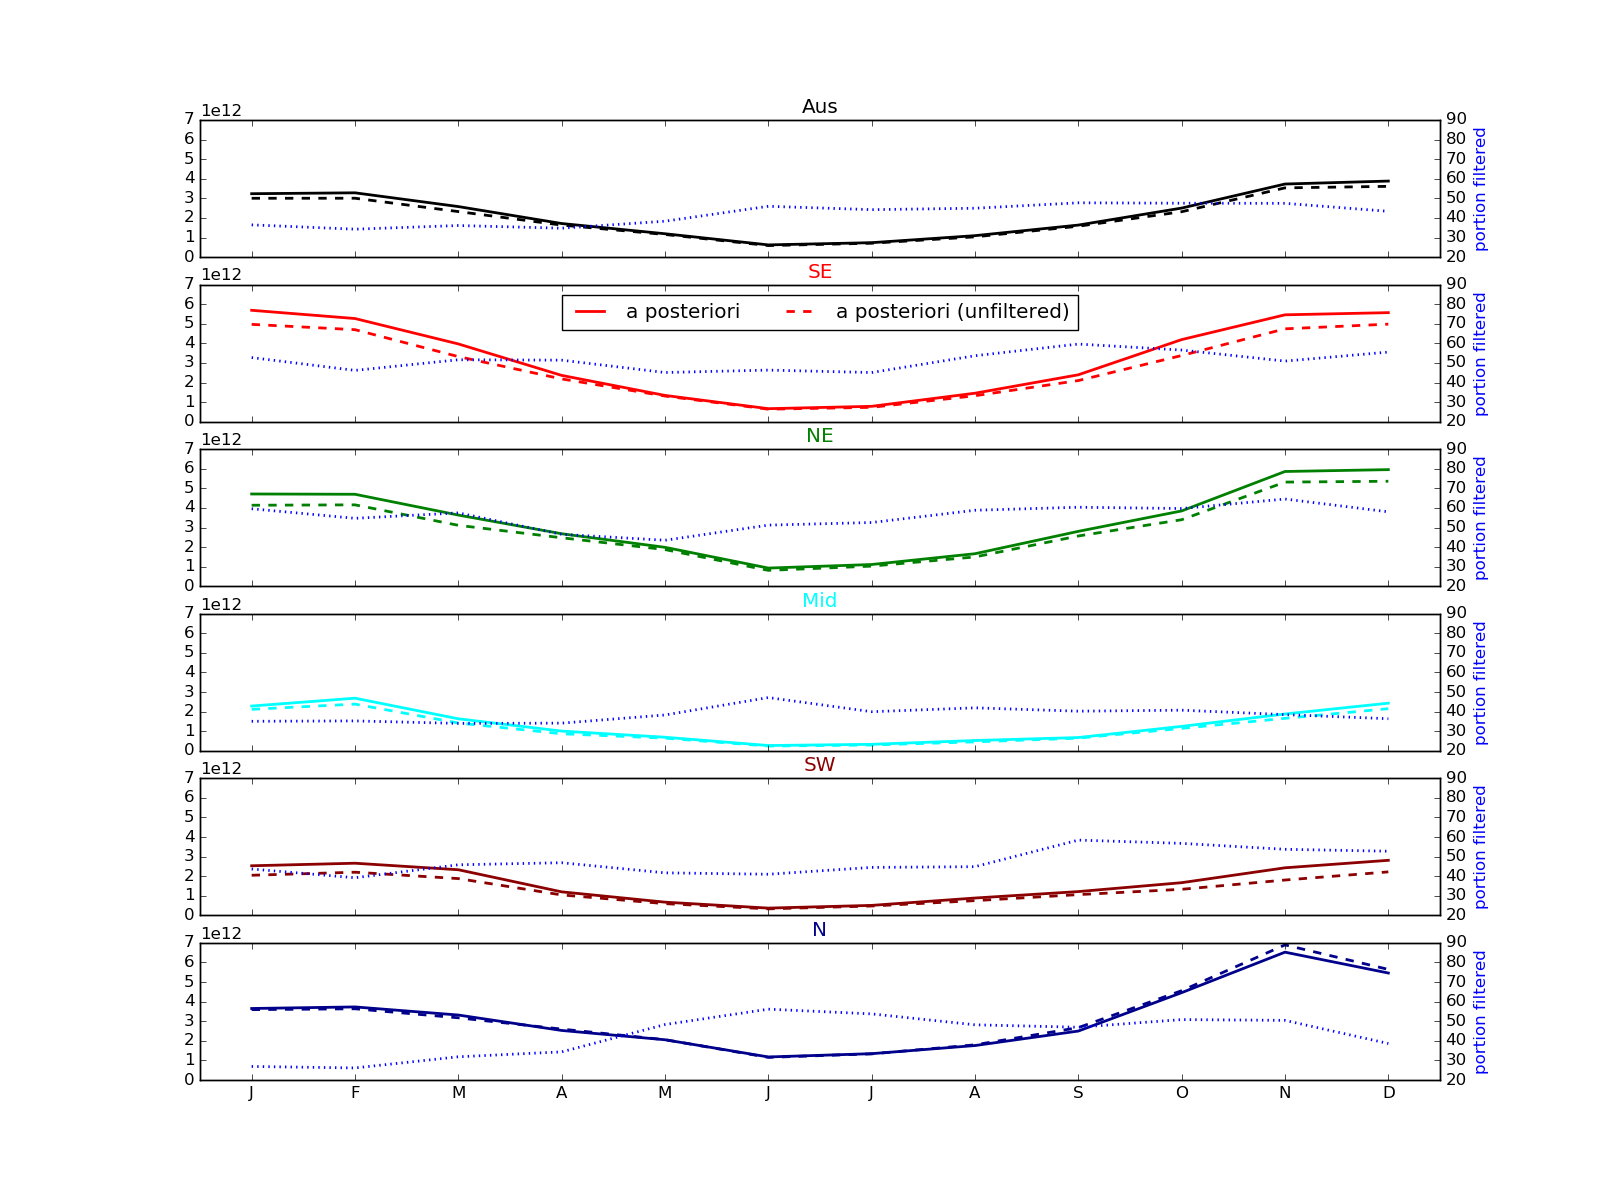
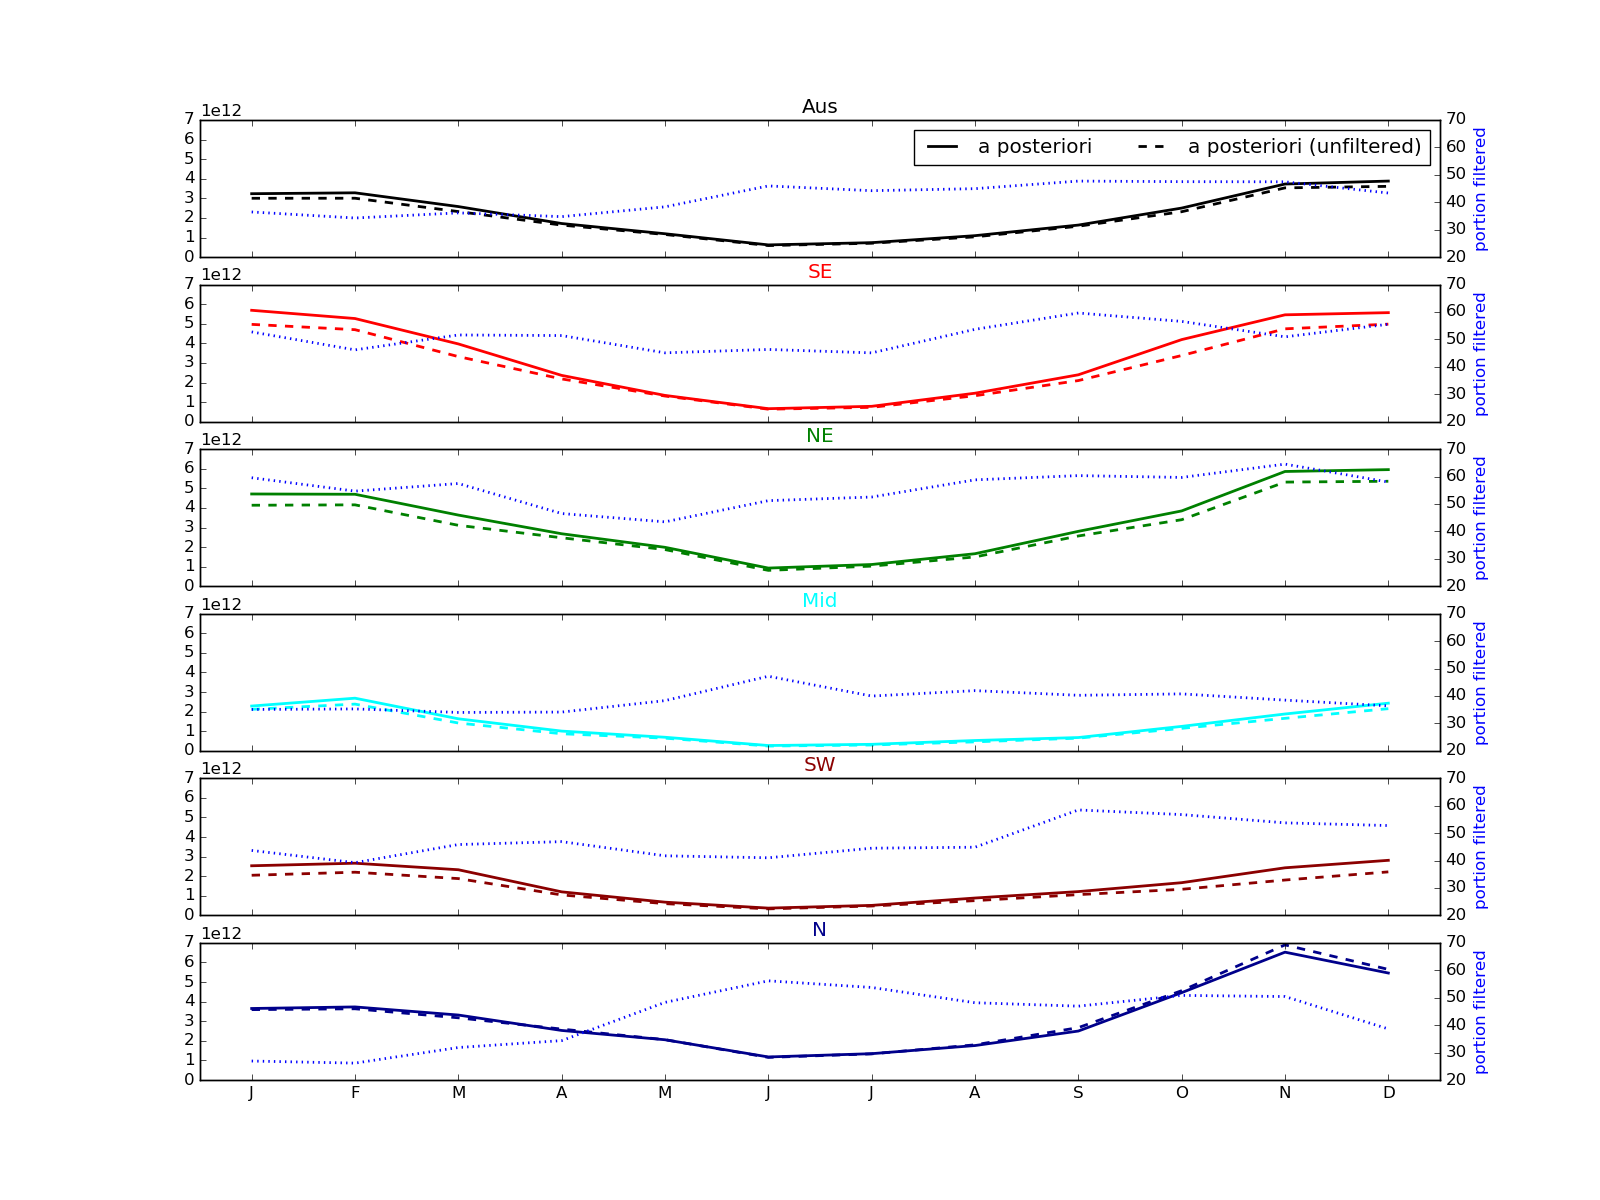
updated filtering sensitivity plot

diff --git a/localtests.py b/localtests.py
@@ -139,13 +139,13 @@ for i in range(n_regions):
     plt.title(labels[i],color=colors[i])
     #    plt.ylabel('isoprene emissions [atom C cm$^{-2}$ s$^{-1}$]')
     #    plt.ylim([0,1e13])
-    if i ==1:
+    if i ==0:
         plt.legend(loc='best',ncol=2)
     # add portion filtered thingy
     plt.twinx()
     plt.plot(range(12),pixgone,color='blue',linestyle=':',linewidth=2)
     plt.ylabel('portion filtered',color='blue')
-    plt.ylim([20,90])
+    plt.ylim([20,70])
 plt.sca(axes[-1])
 plt.xlim([-0.5, 11.5])
 plt.xticks(range(12),['J','F','M','A','M','J','J','A','S','O','N','D'])
